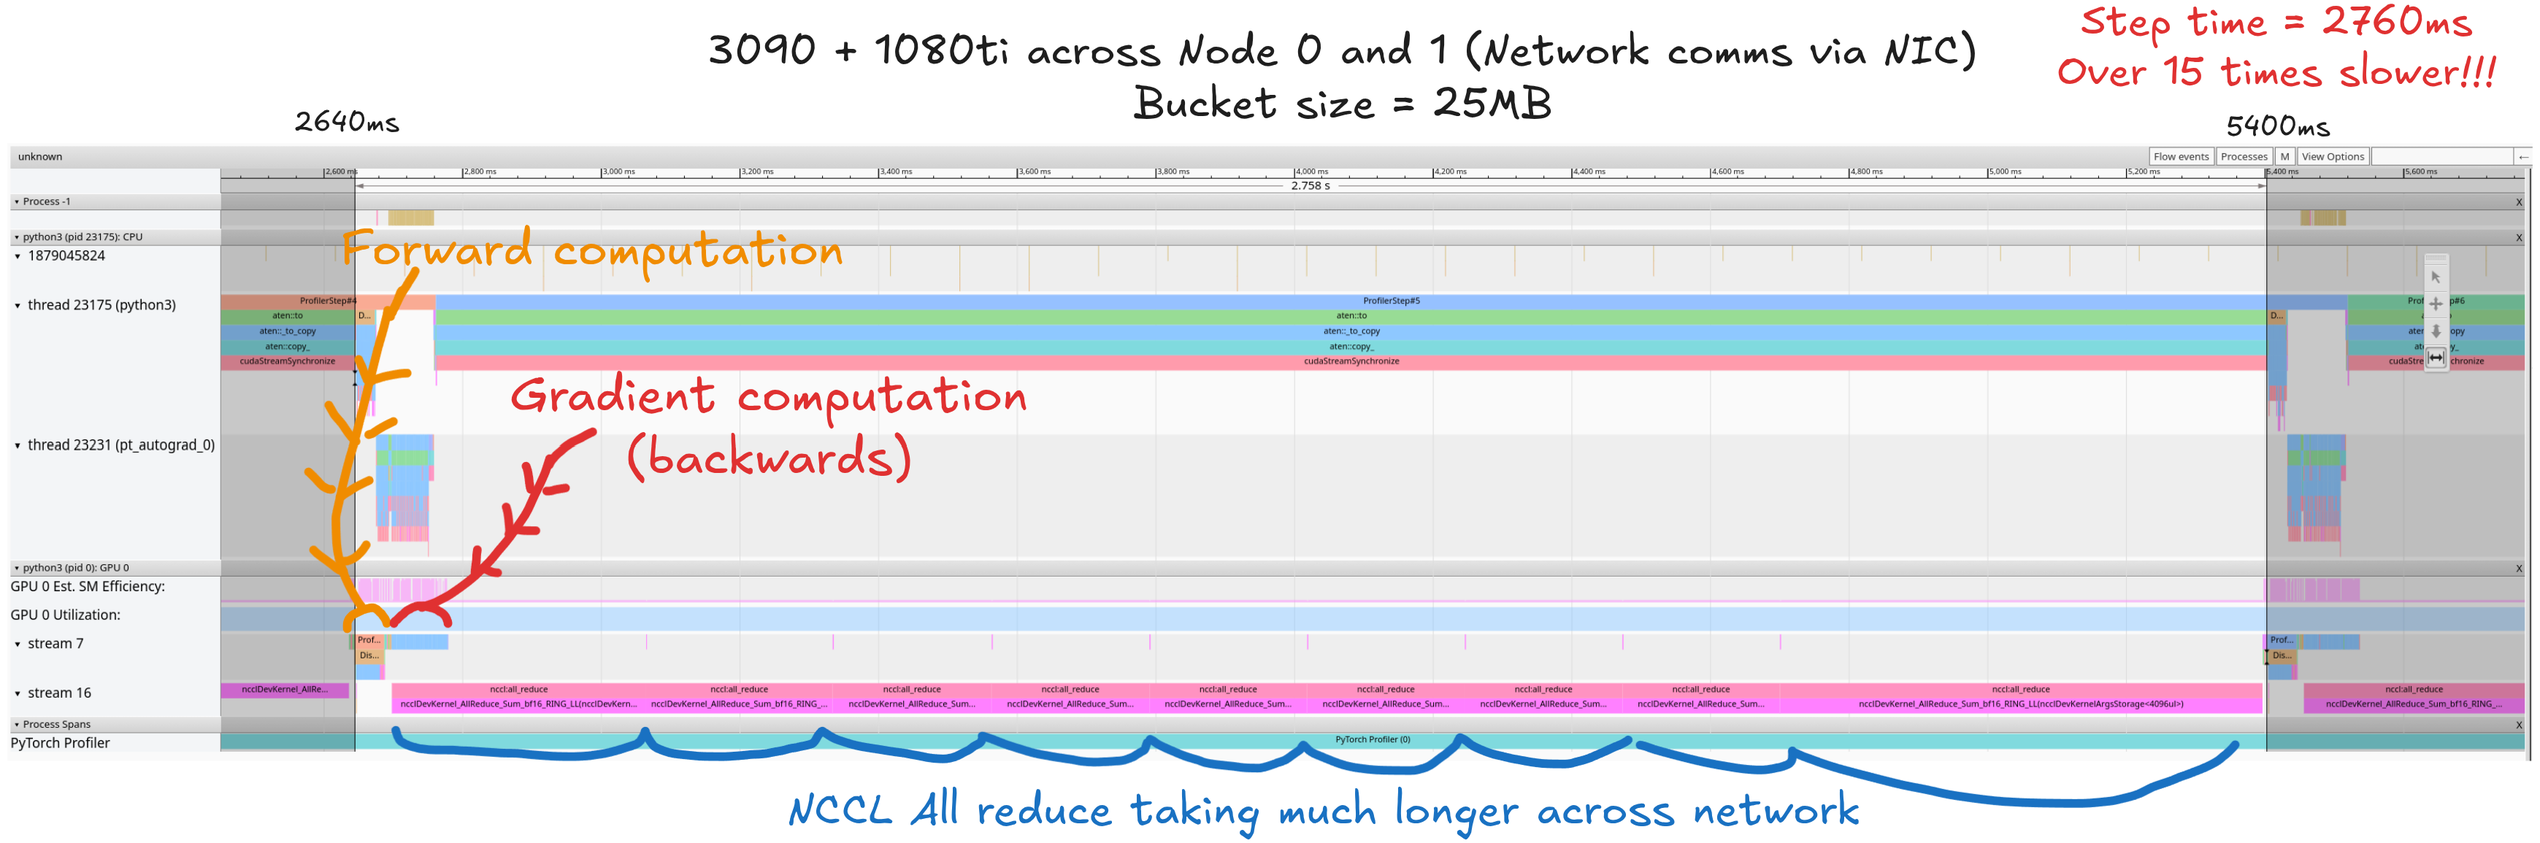
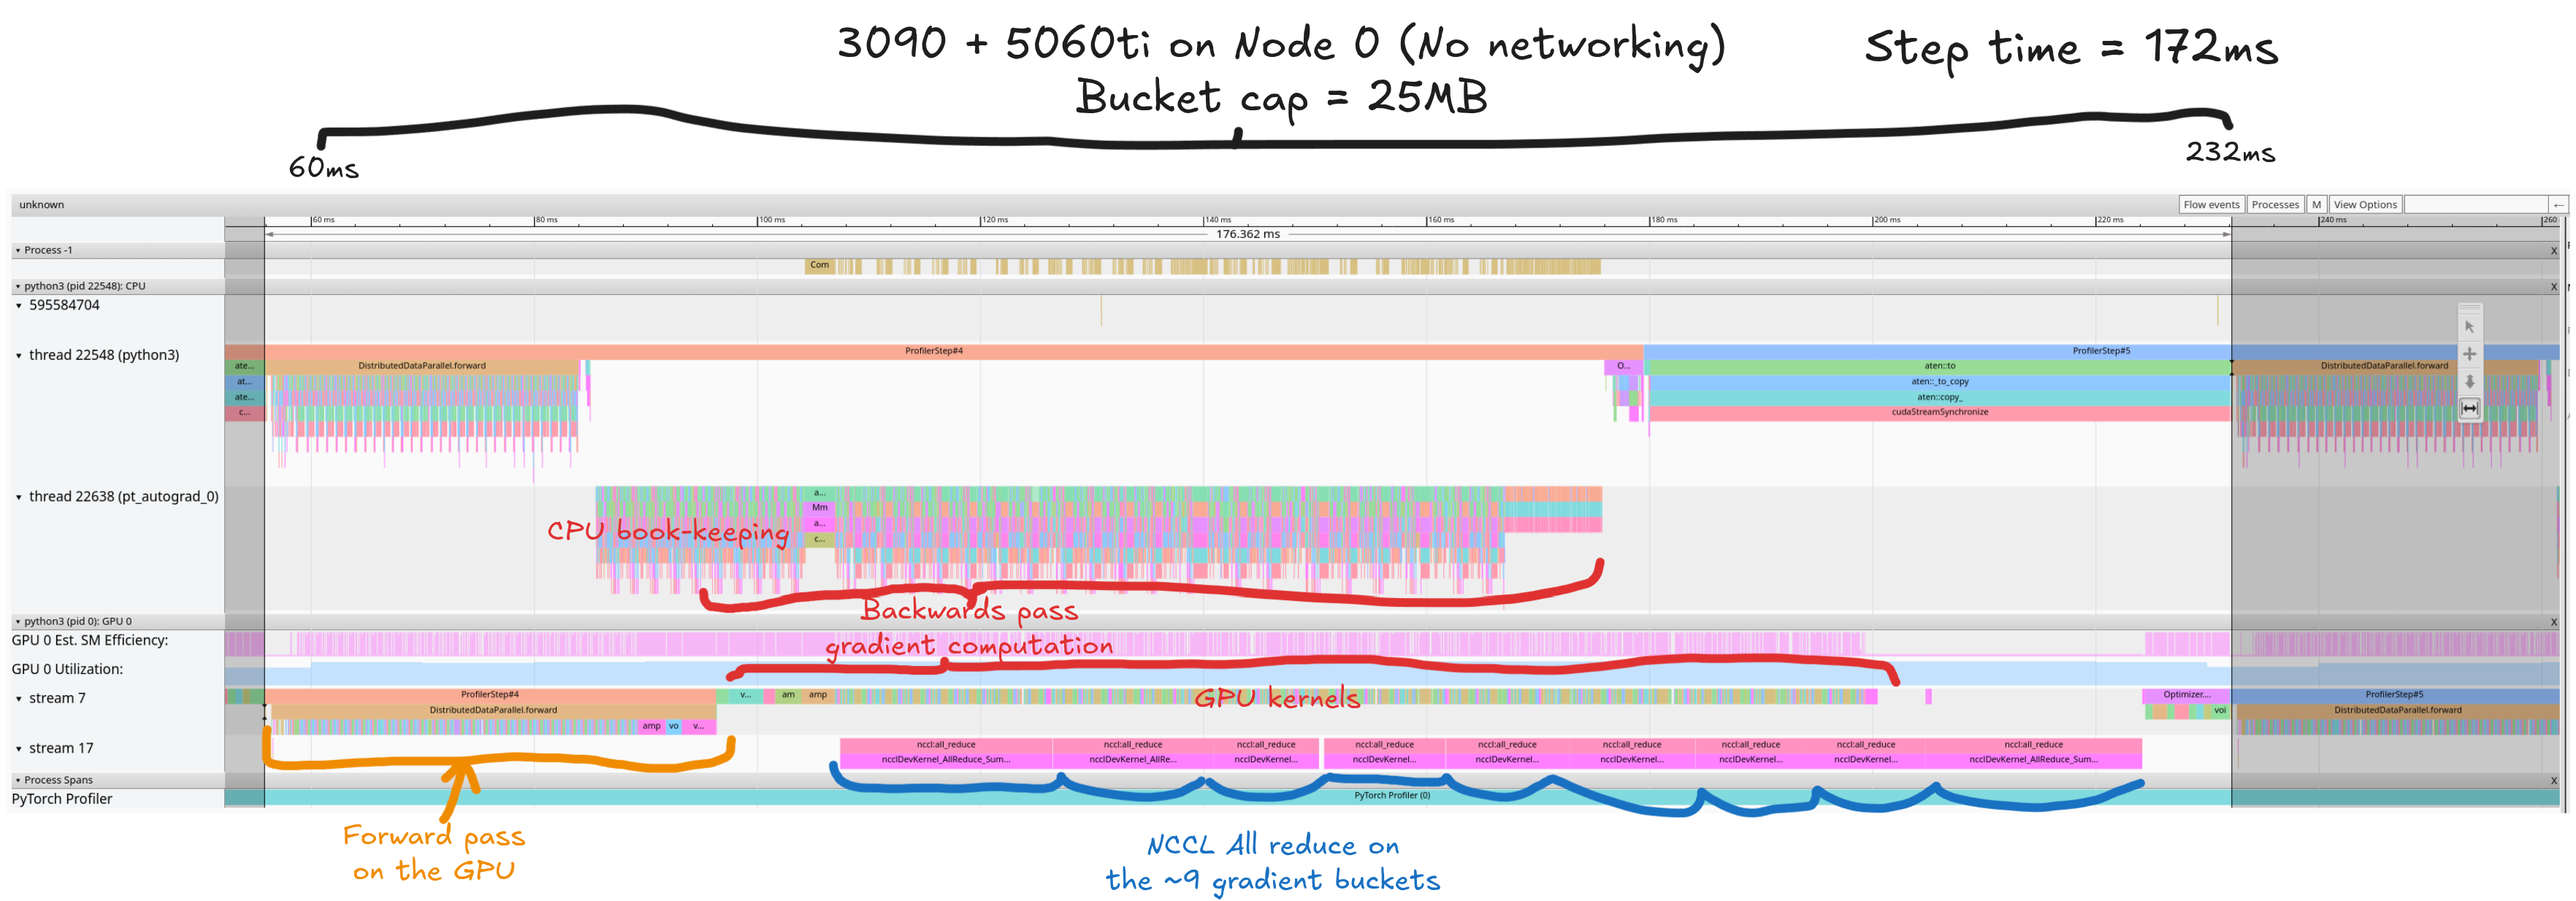
updating readme for torch DDP with profiling findings

diff --git a/src/dist_bench/problems/05_torchDDP_llm/README.md b/src/dist_bench/problems/05_torchDDP_llm/README.md
@@ -148,15 +148,21 @@ I'm going to simplify the benchmarking criteria to just tokens per second
 
 ![Buckets backwards](./fig_bucket.png)
 
-- vary the `bucket_cap_mb` parameter
 
-## Bottlneck identification and profiling
-- `sar -n DEV 1`
-- `iftop -i IF`
-- `nvtop`
-- `torch.profiler`
+## Profiling
+Using `torch.profiler` and tensorboard together, we can visualise distributed performance quite nicely:
 
-## Unused parameters
+Looking at the `GPU kernel` section first. We see the NCCL `all_reduce` runtime is about 46.6%. This is the inter device all reduce communication. We also see the typical tensor core utilisation (for GEMM) is scaled lower accounting for this overhead.
+![first](./fig_prof_kern.png)
 
+Next, lets looks at the **trace** view of a given step. The diagram below demonstrates the relative runtime of each part of the torch calculation, including the individual all_reduce commands for each bucket. The overlapping runtime of these bucket all reduces and the backwards pass, and hence time saved can be seen clearly.
+![intra](./fig_prof_intra.png)
 
-## 
+Below is a visualisation of just how much slower my **inter node** setup is. The 3090 and the 1080ti communicating across 2 different computers via my router. Notice how small the forward and backwards passes are relative to the runtime of the all reduce. A clear profiling demonstration of the network overhead dominating runtime.
+![inter](./fig_prof_inter.png)
+
+Now, we see the real effect of varying the size of each gradient bucket via the `bucket_cap_mb` parameter. It is by default set to `25MB`. Have a bucket cap of `5MB`, we can see many more individual `nccl all_reduce` calls for each individual bucket. This doesn't seem to have impacted runtime on the faster intra-node setup.
+![](./fig_prof_intra_small_buckets.png)
+
+Finally, given the network overhead in the slower inter-node setup. I was curious if having one single large bucket would make more efficient network transfer happen, and serve as a rule of thumb to do for setups with unavoidably poor networking speeds. However, it seems to have actually increased runtime. Interesting!!
+![](./fig_prof_inter_one_bucket.png)
